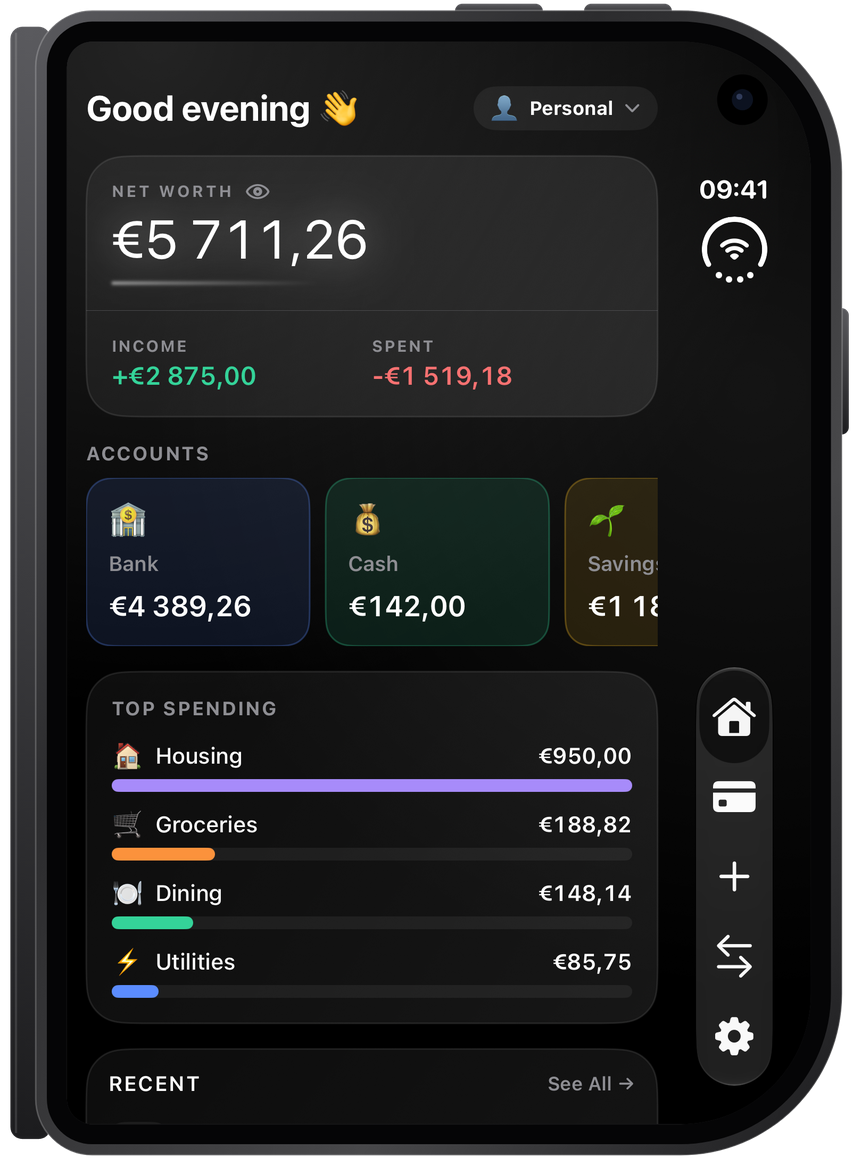
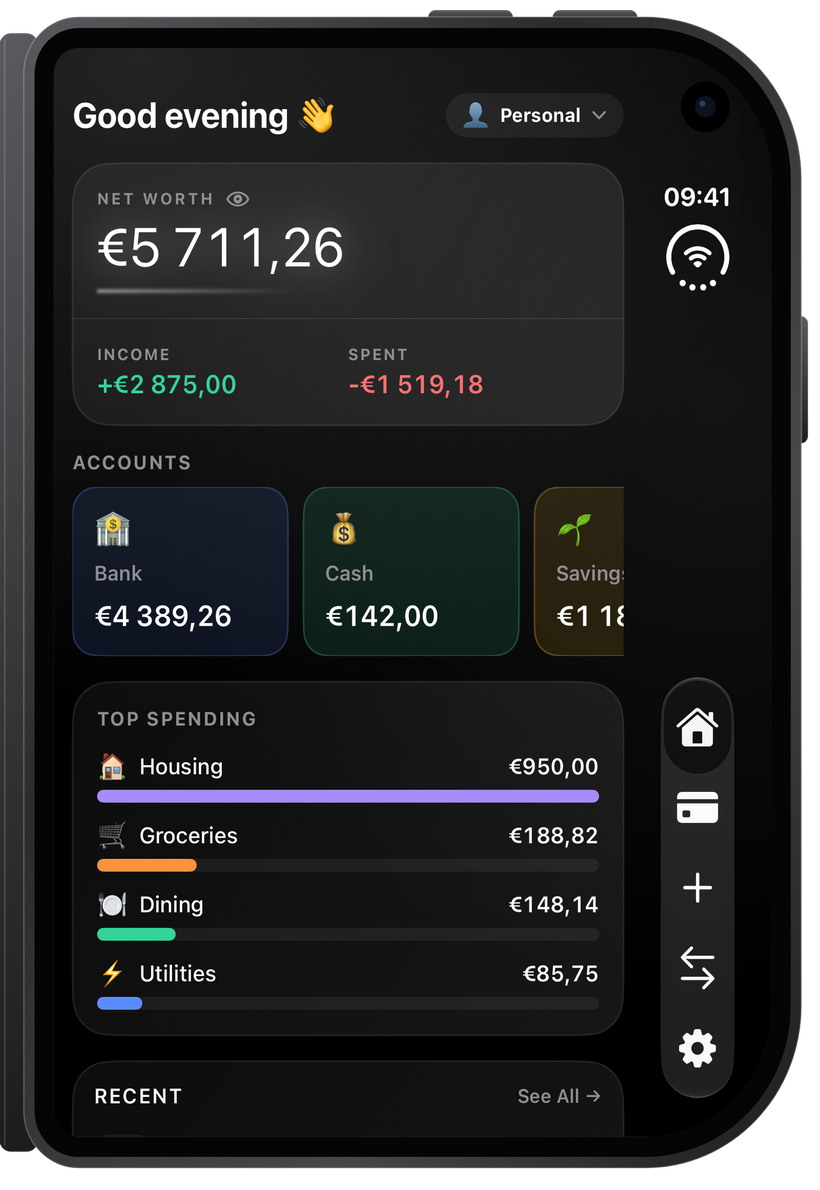
Website: Duo cover fitted edge to edge onto the open phone's right half (no ghost or inner screen showing at the hinge); inner half switches in one frame instead of fading

diff --git a/site/index.html b/site/index.html
@@ -187,14 +187,15 @@ footer .soc svg{width:20px;height:20px;fill:none;stroke:currentColor;stroke-widt
 .duo-dev{--dw:720px;--zs:1.15;--t:.9s cubic-bezier(.65,0,.35,1);position:relative;width:var(--dw);height:calc(var(--dw)*.7255);margin:calc(var(--dw)*.7255*(var(--zs) - 1)/2) 0;perspective:calc(var(--dw)*3);transform:scale(var(--zs)) translateX(-25%);transition:transform var(--t);will-change:transform;cursor:pointer;-webkit-tap-highlight-color:transparent}
 .duo-dev.open{transform:none}
 .duo-dev .half{position:absolute;top:0;left:50%;width:50%;height:100%}
-.duo-dev .r{opacity:0;transition:opacity .2s linear .65s}   /* gone just before the cover lands */
-.duo-dev.open .r{opacity:1;transition-delay:0s}
+.duo-dev .r{visibility:hidden;transition:visibility 0s .9s}   /* on/off in one frame: a fading copy reads as a ghost */
+.duo-dev.open .r{visibility:visible;transition-delay:0s}
 .duo-dev .cover{transform-origin:left center;transform-style:preserve-3d;transition:transform var(--t);will-change:transform}
 .duo-dev.open .cover{transform:rotateY(-180deg)}
 .duo-dev .face{position:absolute;inset:0;backface-visibility:hidden;-webkit-backface-visibility:hidden}
 .duo-dev .back{transform:rotateY(180deg)}
 .duo-dev img{display:block;pointer-events:none;user-select:none;-webkit-user-select:none;-webkit-user-drag:none}
 .duo-dev img{width:100%;height:100%;object-fit:contain;object-position:left center}
+.duo-dev .front img{object-fit:fill}   /* outer frame is ~4% off the open half; match it exactly so nothing peeks */
 .duo-dev .r img,.duo-dev .back img{object-fit:cover}   /* each half of the open screen, no clipping box needed */
 .duo-dev .r img{object-position:right center}
 @media (max-width:820px){.duo-card{padding:16px 16px 40px;border-radius:28px;gap:32px}.duo-dev{--dw:calc(100vw - 82px);--zs:1.3}}

diff --git a/templates/home.html b/templates/home.html
@@ -166,14 +166,15 @@ footer .soc svg{width:20px;height:20px;fill:none;stroke:currentColor;stroke-widt
 .duo-dev{--dw:720px;--zs:1.15;--t:.9s cubic-bezier(.65,0,.35,1);position:relative;width:var(--dw);height:calc(var(--dw)*.7255);margin:calc(var(--dw)*.7255*(var(--zs) - 1)/2) 0;perspective:calc(var(--dw)*3);transform:scale(var(--zs)) translateX(-25%);transition:transform var(--t);will-change:transform;cursor:pointer;-webkit-tap-highlight-color:transparent}
 .duo-dev.open{transform:none}
 .duo-dev .half{position:absolute;top:0;left:50%;width:50%;height:100%}
-.duo-dev .r{opacity:0;transition:opacity .2s linear .65s}   /* gone just before the cover lands */
-.duo-dev.open .r{opacity:1;transition-delay:0s}
+.duo-dev .r{visibility:hidden;transition:visibility 0s .9s}   /* on/off in one frame: a fading copy reads as a ghost */
+.duo-dev.open .r{visibility:visible;transition-delay:0s}
 .duo-dev .cover{transform-origin:left center;transform-style:preserve-3d;transition:transform var(--t);will-change:transform}
 .duo-dev.open .cover{transform:rotateY(-180deg)}
 .duo-dev .face{position:absolute;inset:0;backface-visibility:hidden;-webkit-backface-visibility:hidden}
 .duo-dev .back{transform:rotateY(180deg)}
 .duo-dev img{display:block;pointer-events:none;user-select:none;-webkit-user-select:none;-webkit-user-drag:none}
 .duo-dev img{width:100%;height:100%;object-fit:contain;object-position:left center}
+.duo-dev .front img{object-fit:fill}   /* outer frame is ~4% off the open half; match it exactly so nothing peeks */
 .duo-dev .r img,.duo-dev .back img{object-fit:cover}   /* each half of the open screen, no clipping box needed */
 .duo-dev .r img{object-position:right center}
 @media (max-width:820px){.duo-card{padding:16px 16px 40px;border-radius:28px;gap:32px}.duo-dev{--dw:calc(100vw - 82px);--zs:1.3}}

diff --git a/generator.py b/generator.py
@@ -117,6 +117,18 @@ DUO = [("closed", "duo-outer.webp", "outer.webp", (126, 78), 245, (False, True, 
        ("open", "duo-inner.webp", "inner.webp", (114, 114), 126, (True, True, True, True))]
 DUO_SCALE = 1640 / 3082   # open frame width -> output width; closed uses the same scale
 
+def _duo_cover(im):
+    """Fit the closed phone onto the right half of the open one, edge to edge, so it can be the
+    cover that swings open: outer body x 19..1596, y 20..2170 -> inner right half x 0..1521, y 32..2194
+    (measured from the two frames' alpha). Nothing of the inner screen can show around or through it."""
+    from PIL import Image
+    sx, sy = 1521 / (1596 - 19), (2194 - 32) / (2170 - 20)
+    body = im.resize((round(im.width * sx), round(im.height * sy)), Image.LANCZOS)
+    half = Image.new("RGBA", (3082 // 2, 2236))
+    body = body.crop((round(21 * sx), 0, round(21 * sx) + half.width, body.height))  # drop the hinge margin and its soft edge
+    half.alpha_composite(body, (0, round(32 - 20 * sy)))
+    return half
+
 def _build_duo():
     from PIL import Image, ImageDraw
     base = pathlib.Path(__file__).parent / "appearances"
@@ -134,7 +146,9 @@ def _build_duo():
         ImageDraw.Draw(mask).rounded_rectangle((0, 0, *screen.size), radius, fill=255, corners=corners)
         im.paste(screen, xy, mask)
         im.alpha_composite(f)
-        im.resize((round(f.width * DUO_SCALE), round(f.height * DUO_SCALE)), Image.LANCZOS).save(
+        if state == "closed":
+            im = _duo_cover(im)
+        im.resize((round(im.width * DUO_SCALE), round(im.height * DUO_SCALE)), Image.LANCZOS).save(
             dst, "WEBP", lossless=True, quality=100, method=6)
 
 def apply_appearance():
